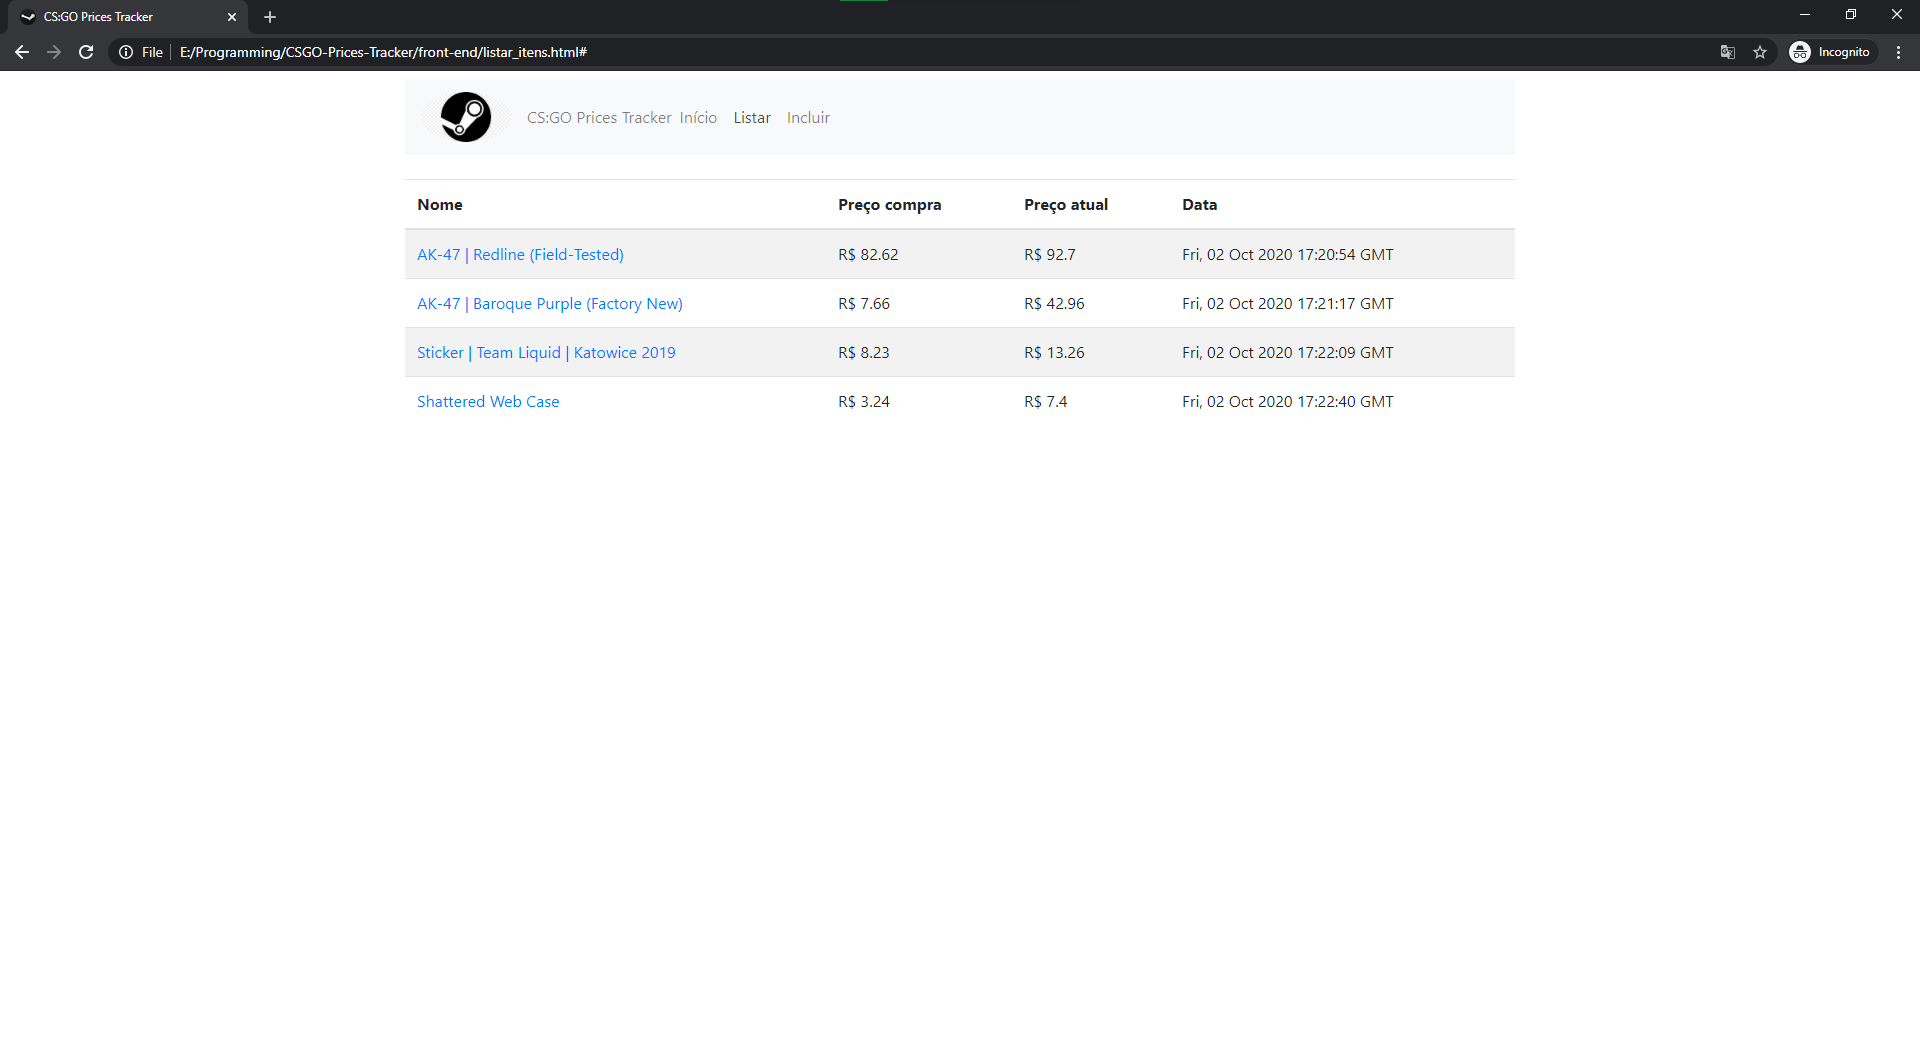
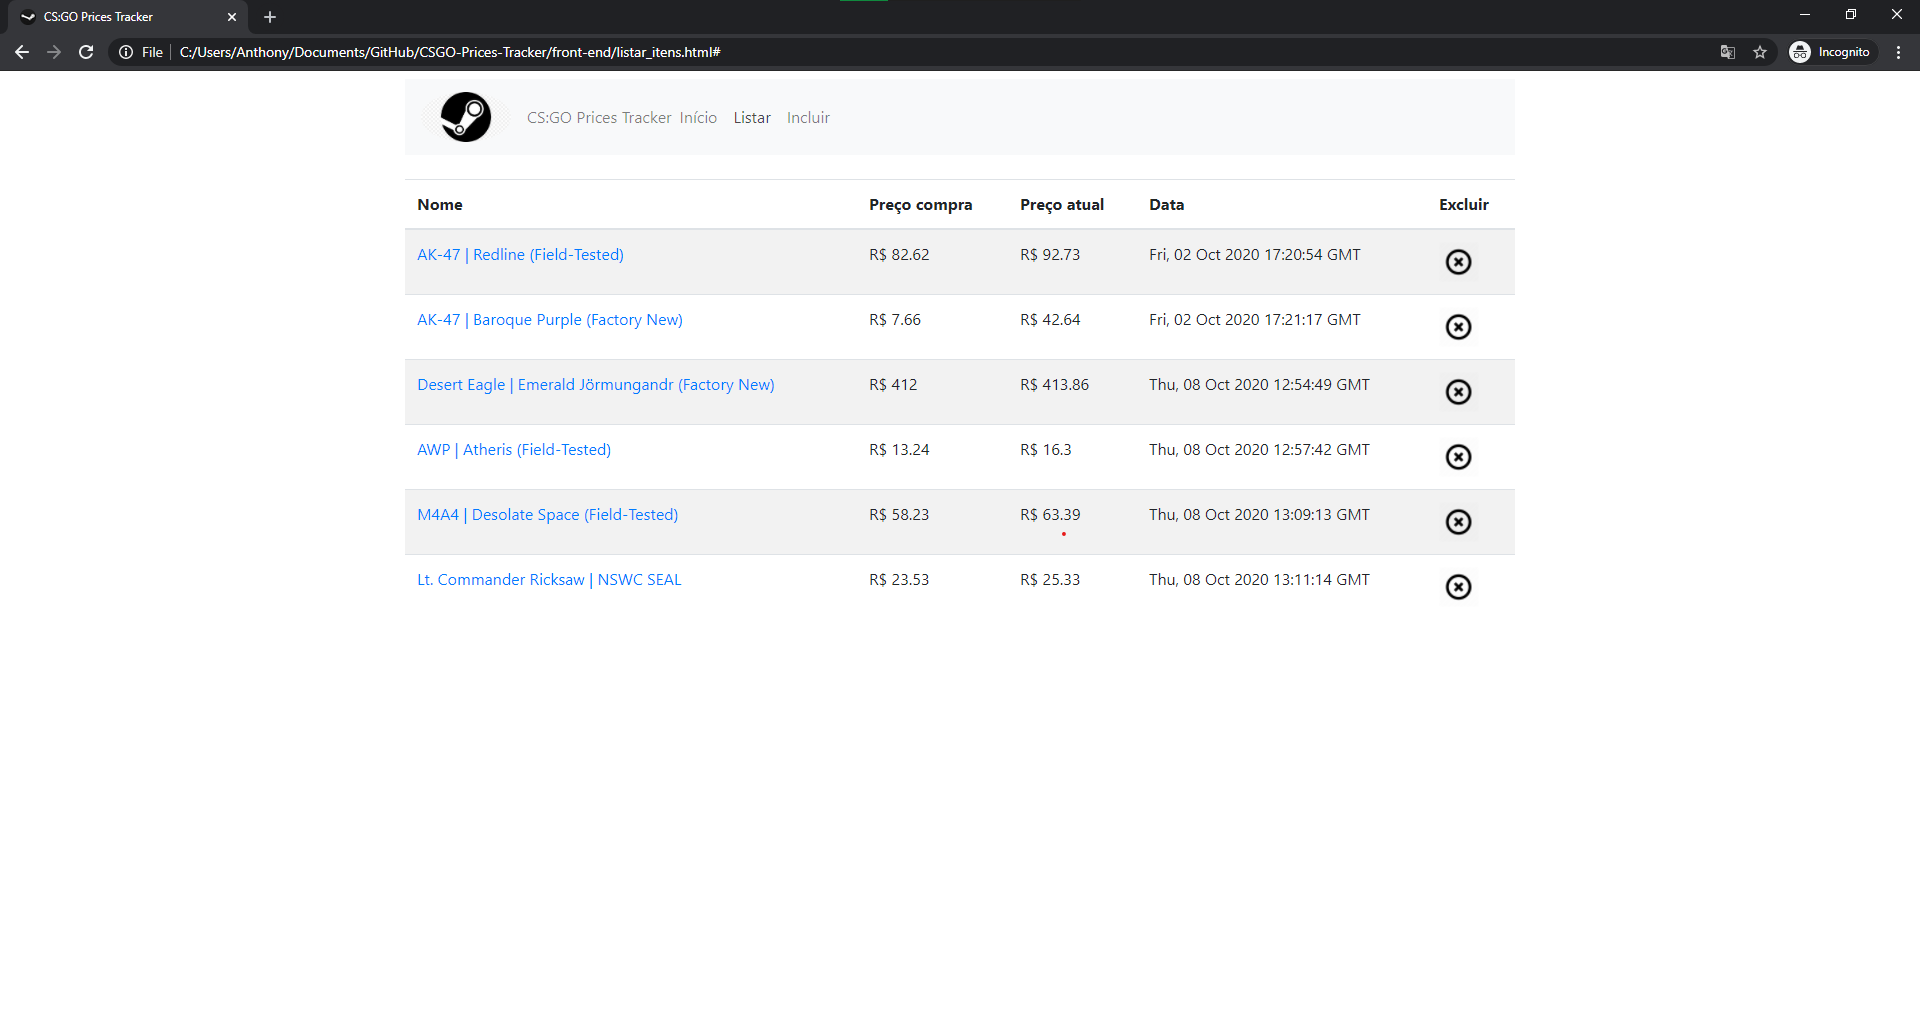
remover itens

diff --git a/front-end/js/script.js b/front-end/js/script.js
@@ -15,11 +15,15 @@ $(function() {
             $('#corpoTabelaItens').empty();
             mostrar_conteudo("tabelaItens");      
             for (var i in itens) { 
-                lin = '<tr>' + 
+                lin = '<tr id="linha_'+itens[i].id+'">' +
                 '<td><a href="' + itens[i].url + '">' + itens[i].nome + '</a></td>' +
                 '<td>R$ ' + itens[i].preco + '</td>' +
                 '<td>R$ ' + itens[i].preco_atual + '</td>' +
                 '<td>' + itens[i].data + '</td>' +
+                '<td><a href=# id="excluir_' + itens[i].id + '" ' + 
+                  'class="excluir_item"><img src="img/excluir.png" '+
+                  'alt="Excluir item" title="Excluir item" width=40px></a>' + 
+                '</td>' +
                 '</tr>';
                 $('#corpoTabelaItens').append(lin);
             }
@@ -74,4 +78,29 @@ $(function() {
     });
 
     mostrar_conteudo("conteudoInicial");
+
+    $(document).on("click", ".excluir_item", function() {
+        var componente_clicado = $(this).attr('id'); 
+        var nome_icone = "excluir_";
+        var id_item = componente_clicado.substring(nome_icone.length);
+        $.ajax({
+            url: 'http://localhost:5000/excluir_item/'+id_item,
+            type: 'DELETE',
+            dataType: 'json',
+            success: itemExcluido,
+            error: erroAoExcluir
+        });
+        function itemExcluido (retorno) {
+            if (retorno.resultado == "ok") {
+                $("#linha_" + id_item).fadeOut(1000, function(){
+                    alert("Item removido com sucesso!");
+                });
+            } else {
+                alert(retorno.resultado + ":" + retorno.detalhes);
+            }            
+        }
+        function erroAoExcluir (retorno) {
+            alert("erro ao excluir dados, verifique o backend: ");
+        }
+    });
 });

diff --git a/front-end/listar_itens.html b/front-end/listar_itens.html
@@ -72,6 +72,7 @@
                         <th scope="col">Preço compra</th>
                         <th scope="col">Preço atual</th>
                         <th scope="col">Data</th>
+                        <th scope="col">Excluir</th>
                     </tr>
                 </thead>
                 <tbody id="corpoTabelaItens">

diff --git a/back-end/routes.py b/back-end/routes.py
@@ -32,3 +32,14 @@ def incluir_item():
         resposta = jsonify({"resultado":"erro", "detalhes":str(e)})
     resposta.headers.add("Access-Control-Allow-Origin", "*")
     return resposta
+
+@app.route("/excluir_item/<int:item_id>", methods=['DELETE'])
+def excluir_item(item_id):
+    resposta = jsonify({"resultado": "ok", "detalhes": "ok"})
+    try:
+        Item.query.filter(Item.id == item_id).delete()
+        db.session.commit()
+    except Exception as e:
+        resposta = jsonify({"resultado":"erro", "detalhes":str(e)})
+    resposta.headers.add("Access-Control-Allow-Origin", "*")
+    return resposta
